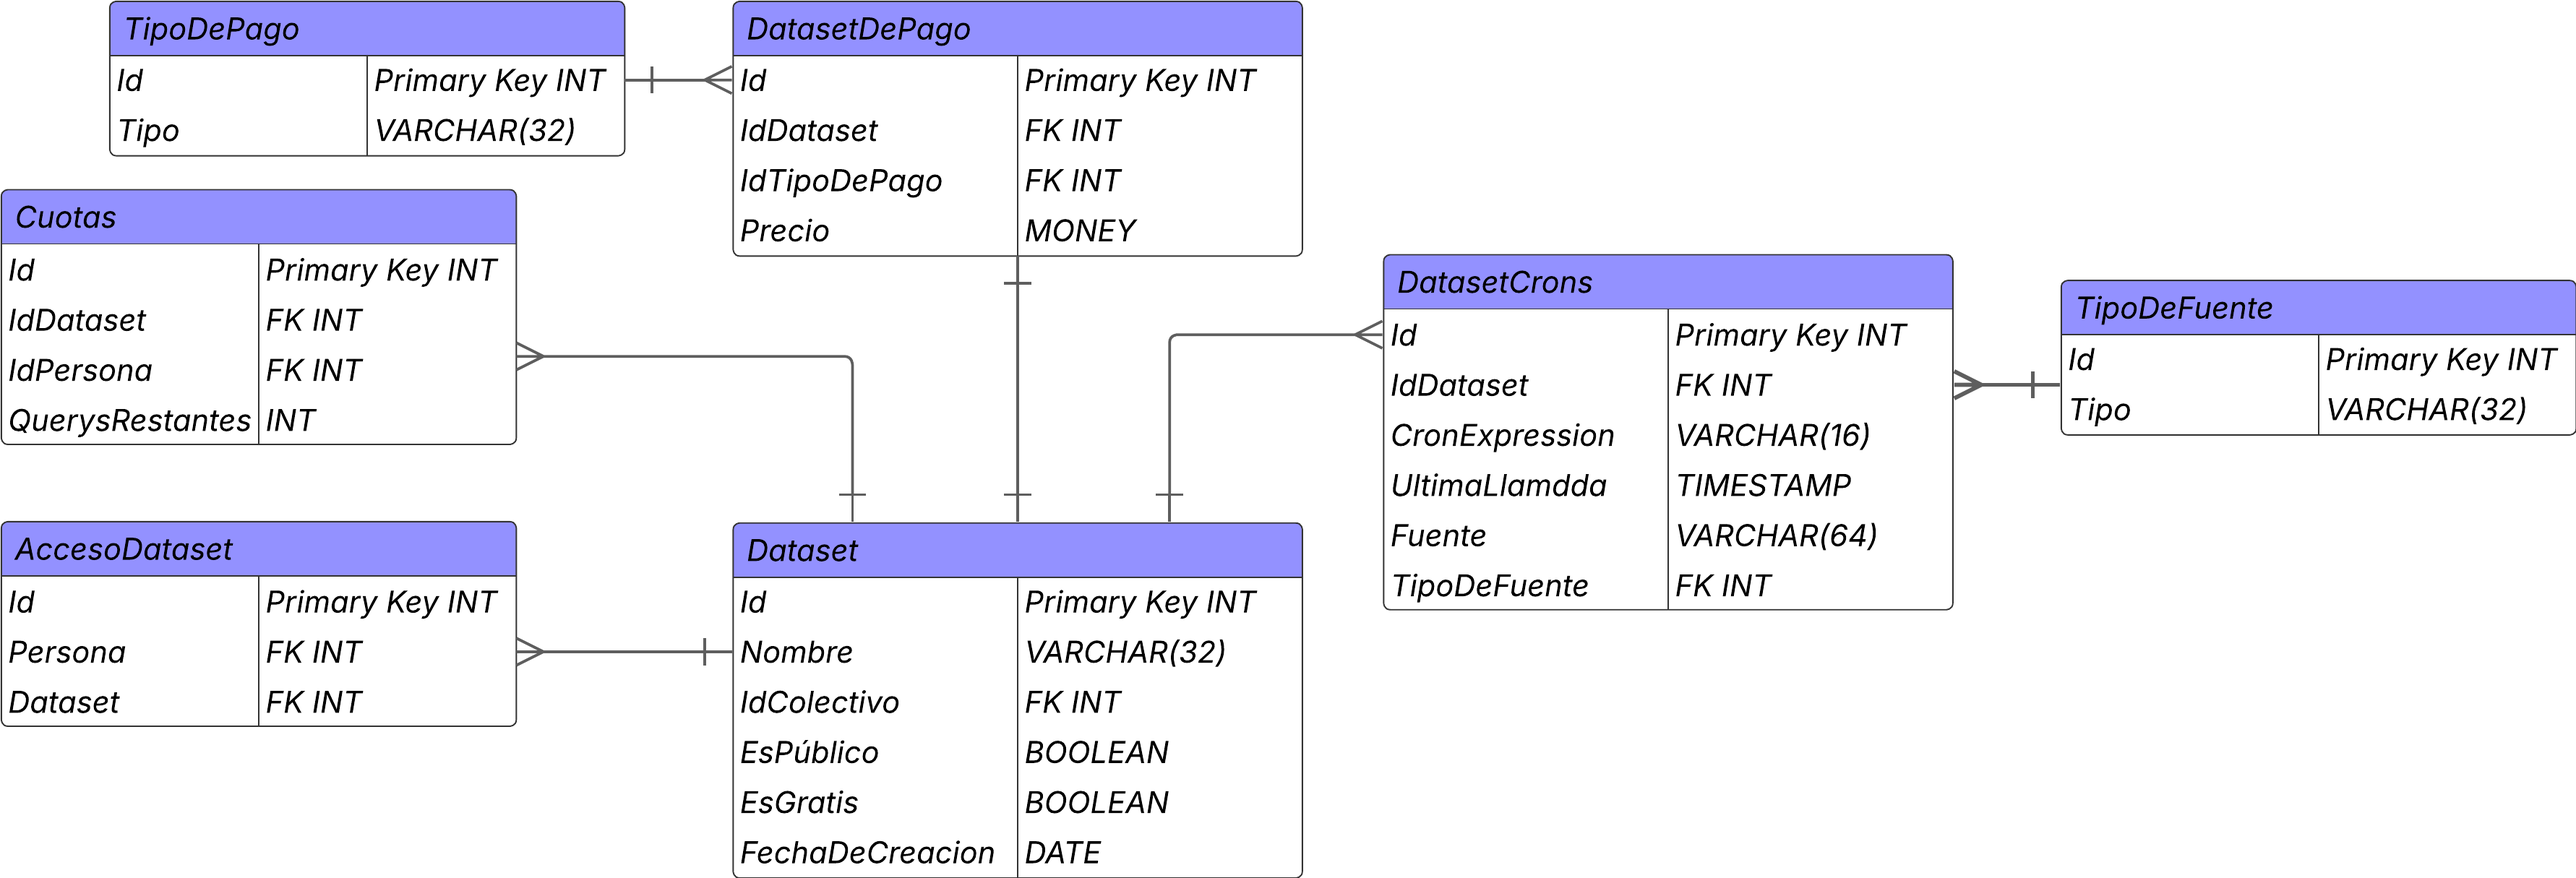
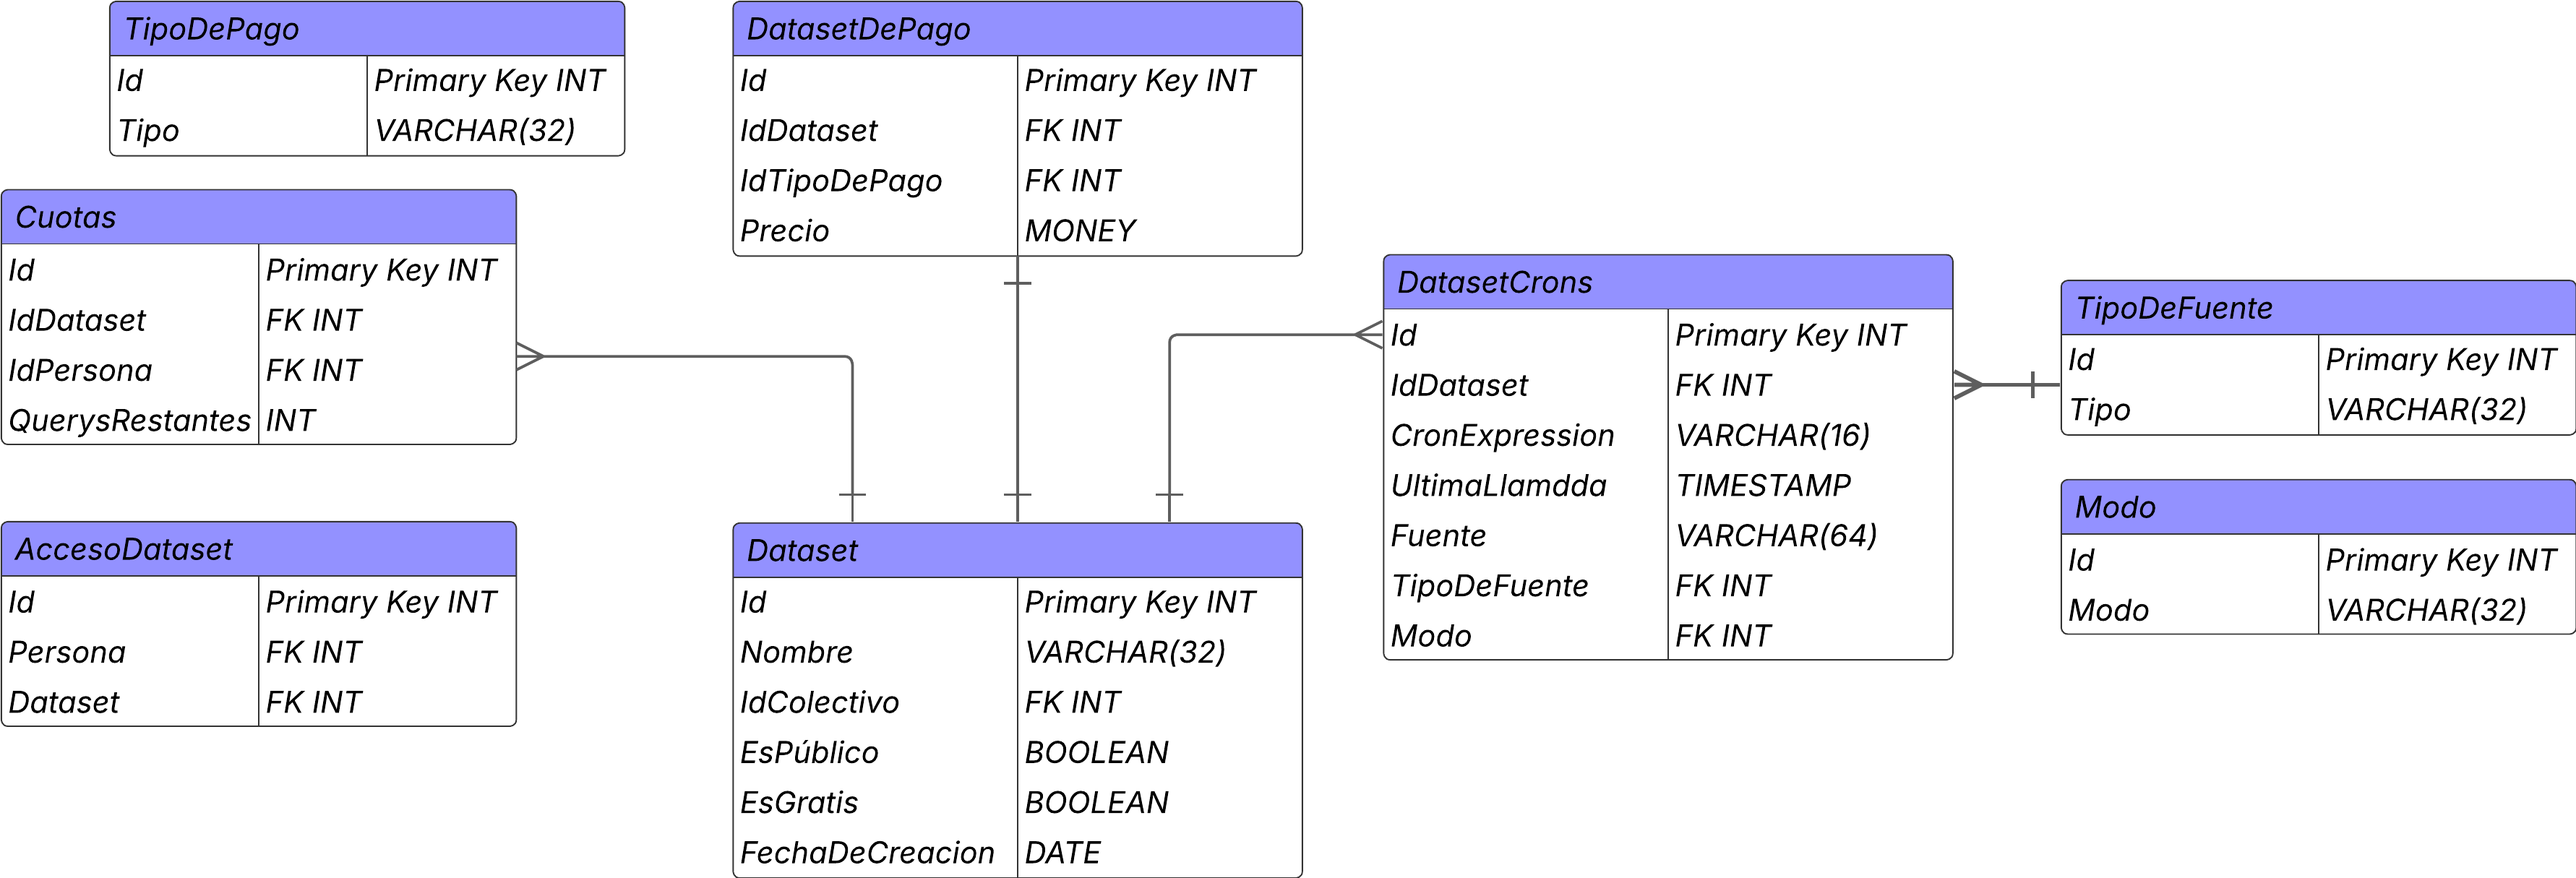
agregar config de IA a la bóveda y parámetros de carga recurrente mejor especificados

diff --git a/README.md b/README.md
@@ -1946,6 +1946,7 @@ En cada una documentar versiones de frameworks, SDKs, lenguajes y herramientas u
 - **DynamoDB:** Base de datos NoSQL para gestionar metadatos dinámicos y de alto rendimiento.
 - **Redis:** Base de datos Clave Valor que sirve para caching o guardar información con TTL.
 - **AWS S3:** Almacenamiento de objetos escalable y seguro para grandes volúmenes de datos no estructurados, como archivos.
+- **Opensearch**: Elasticsearch gestionado por AWS que permite tener bases de datos time series altamente escalables.
 - **AWS Glue:** Servicio ETL gestionado para la transformación y preparación de datos en flujos automatizados.\*tentativo, puede que prefiramos implementar nuestro propio cluster de spark en EKS organizado con airflow.
 - **AWS RDS**: Es el servicio que AMazon ofrece para poder albergar bases de datos de PostgreSQL o MYSQL
 - **AWS SageMaker:** Plataforma integral para crear, entrenar y desplegar modelos de machine learning de forma segura y escalable.
@@ -3444,6 +3445,10 @@ El módulo de Bioregistro maneja información altamente sensible relacionada con
 | `bio:approver`  | Aprueba, certifica o valida registros | Escritura total + validación cruzada     |
 | `bio:admin`          | Gestión completa del módulo, incluyendo usuarios y configuración      | Acceso total y eliminación    |
 
+- La equivalencia de estos roles en la base de datos se puede mapear de la siguiente manera:
+  - Viewer: Son los usuarios en la tabla llamada AccesoDataset.
+  - Editor: Esto hace referencia a los representantes de los colectivos, ubicados en la tabla de Representantes.
+  - Approver: Hace referencia a los administradores del colectivo, se ubican en la tabla de cada colectivo.
 
 
 **Asociacion de RBAC a las bases de datos del sistema:**
@@ -3500,7 +3505,6 @@ Para proteger el backend del Bioregistro, se implementarán validaciones estrict
 
 La aplicación de esto sucede en los siguientes eventos:
 - En todos los endpoints RESTful del Bioregistro (registro, modificación, eliminación, consulta).
-- Cuando se integran datos desde archivos cargados con AWS Glue.
 - En validaciones internas antes de realizar operaciones sobre la base de datos.
 
 **Validaciones estructurales:**
@@ -3686,18 +3690,7 @@ Ejemplo de politicas de secretos con AWS IAM
 }
 ```
 
-**8. Política de Backup y Recuperación**
-
-La protección de la información crítica del módulo Bioregistro implica contar con una política de respaldo automatizada y confiable. Esta política toma en cuenta tanto los datos estructurados (en PostgreSQL) como los documentos y metadatos almacenados en otros servicios como Amazon S3 y DynamoDB. El objetivo principal es arantizar la disponibilidad y recuperación rápida ante pérdida de datos, errores humanos o ataques.
-
-| Recurso Crítico         | Servicio AWS            | Frecuencia de Backup               |  Tiempo de Retención                       |
-| ----------------------- | ----------------------- | ----------------------- | -------------------------- |
-| PostgreSQL | **Amazon RDS**          | Diario (automático)   | 30 días                    |
-| Documentos biométricos  | **Amazon S3**           | Versionado + replicación           |  Ilimitado   |
-| Metadatos JSON / Logs   | **Amazon DynamoDB**     | Backup continuo (PITR)             |  35 días            |
-| Secrets y claves        | **AWS Secrets Manager** | Versionado automático              | Hasta eliminación |
-
-**Procedimiento de Recuperación ante Incidente**
+**8. Procedimiento de Recuperación ante Incidente**
 1. Detección del incidente mediante alertas de CloudWatch.
 2. Validación del último snapshot válido en RDS o versión del objeto en S3.
 3. Restauración automática desde consola de AWS Backup, RDS o S3.
@@ -3897,11 +3890,14 @@ Luego, gracias a la funcionalidad de Amazon Redshift logs, se podrá ver detalla
 | xid               | ID de la transacción. |
 | query             | Un prefijo `LOG:` seguido del texto de la consulta. |
 
-Ahora bien, estos logs sirven tanto para tener un registro de qué consultas se han hecho, como para llevar cuotas de uso de datasets que se usan por cuotas definidas.
+Ahora bien, estos logs sirven tanto para tener un registro de qué consultas se han hecho (para más adelante dar contexto Agentes sobre como consultar un dataset), como para llevar cuotas de uso de datasets que se usan por cuotas definidas.
 
 Por ello, cuando estos logs lleguen a AWS CloudWatch, se disparará una Lambda Function que se encargue de obtener el query y también el ID del usuario que se seteó en la consulta. Luego, se revisará si el dataset al que se le realizó la consulta es de tipo cuota, y en dado caso se va a la tabla de cuota en RDS para hacer la deducción.
 
-A continuación un ejemplo de código de como se puede realizar esto:
+Para el resto de los casos (incluyendo cuando el dataset es de tipo cuota), se insertará el query en un índice de OpenSearch, el servicio gestionado de Elasticsearch que ofrece AWS. Gracias a la naturaleza de time series de Elastic Search, podremos almacenar estos logs de manera eficiente, organizándolos en índices mensuales por dataset con el formato de nombre `DATASETNAME-YYYY-MM`.
+Esto evitará almacenamiento masivo y poco escalable típico de motores SQL, y además funcionará como una fuente sencilla para que los agentes de IA puedan alimentarse con los queries asociados a cada dataset.
+
+A continuación un ejemplo de código de como se puede realizar dicha lambda function:
 ``` python
 import json
 import re
@@ -3942,7 +3938,8 @@ def lambda_handler(event, context):
             dataset_id = int(match.group(1))
 
             ######
-            # Aquí se revisa RDS para saber si es un dataset de pago por cuotas
+            # Aquí se revisa RDS para saber si es un dataset de pago por cuotas, y luego se hace
+            # la inserción en el índice correspondiente de Opensearch
             ######
 
             cuota = session.query(Cuotas).filter(Cuotas.IdDataset == dataset_id).first()
@@ -3988,6 +3985,45 @@ Más adelante se verá cómo se implementa el RBAC en el sistema, pero el API ta
 
 - Ya luego, si se pasó todo el proceso de autorización, se le asigna el rol de IAM correspondiente al dataset por medio de un STS que sirva solo para esa consulta.
 
+
+
+##### Servicios en AWS
+
+Se mencionarán solo los servicios de AWS que aún no han sido descritos en algún punto de la arquitectura. En caso de querer ver todos los servicios de AWS que se usarán y como se desplegarán por medio de terraform ir a dicha sección después de la explicación de los microservicios.
+
+**AWS Lambda:**
+Para las funciones serverless que obtienen información de los datasets y la loguean.
+
+**Configuración de Hardware:**  Aunque no gestionamos hardware directamente, sí configuraremos los recursos, como:
+- **Memoria:** 1024 MB
+- **Arquitectura:** arm64
+- **Tiempo de ejecución:** Node.js 22.x
+- **Almacenamiento efímero:** 512MB
+- **Tiempo de espera:** 5s
+- **Retry attempts:** 1
+
+**AWS OpenSearch:**
+
+Para el sistema de logs para posterior entrenamiento de Agentes de IA.
+
+**Configuración del Dominio OpenSearch:**
+
+- **Versión del motor**: OpenSearch 2.3
+- **Tipo de instancia**: t3.small.search
+- **Cantidad de instancias**: 2 (con zone awareness activado para alta disponibilidad)
+- **Almacenamiento EBS**: 20 GB, tipo gp3
+- **Encriptación**:
+  - En tránsito (TLS 1.2 mínimo)
+  - En reposo (AES-256)
+- **Seguridad**:
+  - Autenticación interna con usuario admin
+  - Acceso vía HTTPS obligatorio
+  - Index Lifecycle Management (ILM):
+- **Política de rollover**:
+  - Máximo 5GB por índice
+  - Máximo 1 día por índice
+- **Retención**:
+  - Borrado automático de índices después de 30 días
 
 #### Diseño de los Datos
 
@@ -4138,6 +4174,7 @@ No se usará RLS ya que el acceso a datasets se hace por tablas, entonces una ve
   - Tener multi-tenant agrega una capa de separación lógica que evita que entre colectivos puedan acceder a espacios que no les corresponde.
   - En caso de que alguién tenga acceso a la base de datos no podrá hacer nada ya que todo está encriptado.
   - Ya que para poder acceder a una tabla se ocupa tener el rol efímero de IAM que a su vez tenga los tags necesarios de LakeFormation, inclusive los administradores de la base de datos no van a poder ver que contenido tienen las tablas. Solo aquellos con los permisos podrán.
+  - Gracias a que Redshfit internamente es una base de datos columnar las consultas pueden ser realizadas de manera más eficiente ya que solo trae a memoria la información necesario y no todos los datos de un registro.
 
 ##### Conexión a Base de datos
 
@@ -4176,7 +4213,7 @@ Dado que es imposible predecir con exactitud el contenido específico de cada da
 - Cada registro deberá incluir una columna llamada **CategoriaSemantica**, que permitirá dar contexto sobre el tipo de información contenida en la tabla.
 - Se añadirá también una columna de **Descripción**, destinada a ofrecer una breve explicación sobre el contenido de cada fila, brindando aún más contexto semántico.
 - Estas columnas serán incorporadas automáticamente durante el proceso del motor de transformación.
-- Se registrarán todos los logs hechos a
+- Se registrarán todos los logs hechos a Opensearch, donde los módelos de inteligencia artificial podrán ver que consultas se le hacen a un dataset específico, y de esta forma puedan dar resultados de mayor calidad.
 
 **Justificación**
 
@@ -4184,6 +4221,9 @@ La orientación de **La Bóveda** hacia un diseño habilitado a agentes de AI re
 
 - Las consultas provenientes del centro de visualización y consumo podrán realizarse mediante lenguaje natural. Para que los agentes puedan generar consultas SQL adecuadas, necesitan contar con metadatos descriptivos y semánticos que les permitan comprender la estructura y el contenido del dataset.
 - En casos donde los datasets deban actualizarse tras una nueva carga o un cambio de esquema en la fuente original, los agentes deben tener suficiente contexto para rediseñar el modelo o adaptar la carga posterior de forma correcta y autónoma.
+- Mantener un registro de las consultas en una base de datos de time series permitirá proporcionar contexto actualizado y frecuente a los agentes de IA para futuras operaciones sobre los datasets.
+- Al utilizar una base de datos time series, se garantiza que la información registrada sea siempre reciente y relevante, facilitando análisis y respuestas más precisas por parte de los agentes.
+
 
 
 
@@ -4476,6 +4516,7 @@ class TemporaryStorageHandler:
   - Coherencia de tipos de datos por columna.
   - Detección de campos vacíos y estructura tabular.
   - Nombre unico de Dataset.
+  - Revisa si todos los registros vienen con un timestamp (este no es un criterio de rechazo, es de contexto).
 
 
 ```python
@@ -4501,7 +4542,7 @@ class ValidationManager:
             raise
 ```
 
-5. Notificación y confirmación:
+4. Notificación y confirmación:
 
 - `UploadFlowCoordinator` utiliza RabbitMQ para enviar mensajes al notification-service, el cual notifica al usuario por correo electrónico o bien por notificación del sistema en caso de estar online, sobre el éxito de la carga inicial y los siguientes pasos para configurar detalladamente el dataset.
 
@@ -4528,8 +4569,7 @@ class UploadFlowCoordinator:
             body=json.dumps(message)
         )
 ```
-
-6. Respuesta al frontend:
+5. Respuesta al frontend:
 ```json
 {
   "datasetId": "uuid-del-dataset",
@@ -4592,7 +4632,8 @@ Una vez el dataset haya sido cargado en el microservicio anterior, sigue el este
   "cron": "0 0 * * *",
   "connectionId": "secreto-en-secrets-manager",
   "mode": "delta",
-  "triggerMethod": "timed_pull|callback"
+  "triggerMethod": "timed_pull|callback",
+  "IgnoreColumns": "true|false"
 }
 ```
 
@@ -4602,9 +4643,18 @@ Una vez el dataset haya sido cargado en el microservicio anterior, sigue el este
   - A una hora específica del día: 1:00, 7:00, 13:00, 22:00, etc.
   - Opción para ejecutar cada 12, 6, 3 horas.
 
-- Si triggerMethod es callback, no se registra el dataset como timed_pull y se asumirá que solo se puede actualizar on demand.
+- Para el parámetro de mode están las siguientes opciones.
+  - Delta: Permite hacer cargas diferenciales. **Esta opción solo se permitirá si el dataset de la fuente tiene: timestamps en cada registro, garantiza que las PKs (o equivalente) no cambian y son incrementales**.
+  - Complete: Solicita que se cargue todo el dataset desde 0 y se deseche el que hay en Redshift.
 
-- Si triggerMethod es timed_pull entonces se registrará en `DatasetCrons` de RDS cada cuanto se hace el pull de los datos, cual es la fuente de datos, y que tipo es (SQL, MongoDB o API)
+- Para triggerMethod existen dos opciones:
+  - Callback: no se registra el dataset como timed_pull y se asumirá que solo se puede actualizar on demand.
+  - Si triggerMethod es timed_pull entonces se registrará en `DatasetCrons` de RDS cada cuanto se hace el pull de los datos, cual es la fuente de datos (el connection string o URL), que tipo es (SQL, MongoDB o API), y el modo en el que opera (Complete o Delta).
+
+- Para IgnoreColumns existen dos opciones:
+  - Si se desea que se ignoren columnas nuevas que vengan en los datasets posteriores a la primera carga.
+  - Si se desea que cuando venga una nueva columna en una tabla se le añada a toda la tabla destino en redshift.
+
 
 Respuesta al frontend:
 ```json
@@ -4881,7 +4931,7 @@ Además, existe una capa encargada de escuchar conexiones de usuarios al fronten
 
 Finalmente, existe una capa de repositorios gestionada mediante el patrón Factory. Cada conexión es manejada utilizando el patrón Singleton.
 
-![identity clases](img/ClasesBioregistro5.png)
+![identity clases](img/ClasesCentroCarga4.png)
 
 
 
@@ -4902,7 +4952,7 @@ A continuación se presenta el diagrama de base de datos correspondiente al mód
 
 - **AccesoADataset**: registra qué personas tienen acceso a cada dataset.
 - **DatasetDePago y TipoDePago**: gestionan la configuración de pagos asociados a datasets, incluyendo su categorización.
-- **DatasetCrons**: define el tipo de tarea programada asociada a determinados tipos de datasets. Esta tabla será consultada por Airflow para aplicar los DAGs correspondientes de forma automatizada.
+- **DatasetCrons**: define el modo de carga que tendrán los datasets recurrentes (Delta, Complete), y el tipo de fuente del que pueden venir (Base de datos o API). Esta tabla será consultada por Airflow para aplicar los DAGs correspondientes de forma automatizada.
 
 ![image](img/DiagramaBDCentroCarga.png)
 
